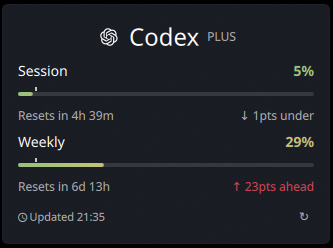
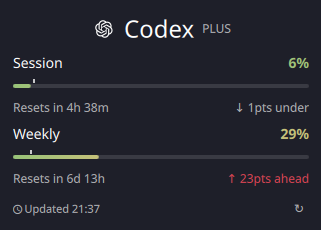
Replace README screenshot with updated KDE popup

Changed region(s): [[0.0, 0.0, 1.0, 1.0], [0.2804, 0.0609, 0.7165, 0.213]]

diff --git a/README.md b/README.md
@@ -4,7 +4,7 @@ A KDE Plasma port of [mryll/codexbar](https://github.com/mryll/codexbar), built 
 
 The panel shows the **percentage remaining** by default. The popup shows **percentage used**, reset countdowns, pacing, credits when available, and the last update time. The compact popup has a minimum height based on its content, so it can shrink without introducing a scrollbar.
 
-<img src="docs/screenshot.png" alt="CodexBar KDE popup showing session and weekly usage" width="333">
+<img src="docs/screenshot.png" alt="CodexBar KDE popup showing session and weekly usage" width="321">
 
 ## Install
 
